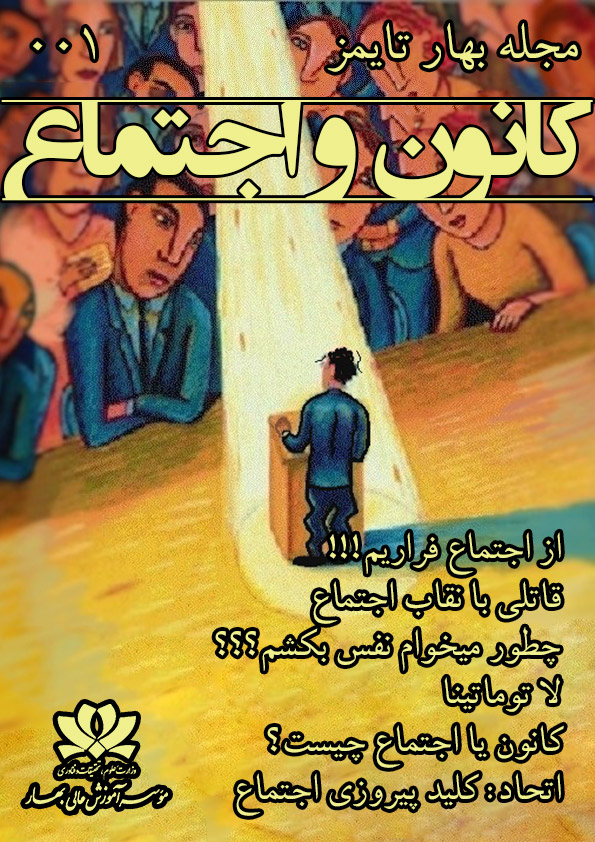
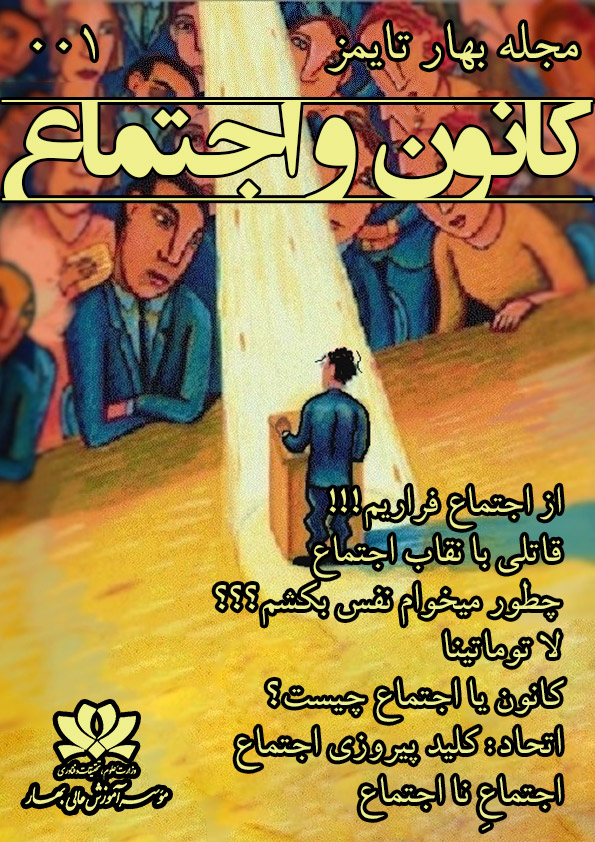
feat(001): add ajtema na ejtema

Changed region(s): [[0.3328, 0.5558, 0.9681, 0.9881]]

diff --git a/archive/001/index.html b/archive/001/index.html
@@ -451,6 +451,67 @@
         حال سؤال بسیار مهم این است: آیا این سلاح روزی در اختیار۹۹. ۵درصدیها قرار میگیرد؟ یا صرفاً ایده و تئوریای در ذهن انسانها خواهد ماند تا نور آن خاموش شود؟ شاید هم خاموش شدن آن علاج آن واقعه (دستیابی به اتحاد) قبل وقوع است؟
       </p>
     </div>
+    <br/>
+    <div class="typography-align">
+      <h2 class="display-inline-block">اجتماعِ نا اجتماع</h2>
+      <img
+        class="alignleft w-40 mt-0"
+        src="./assets/images/007.jpg"
+      />
+      <br />
+      <a
+        href="../../author/008-alireza-bahrami.html" 
+        class="profile mini inline"
+      >
+        <span class="title small">نویسنده: </span>
+        <strong class="title small">علیرضا بهرامی</strong>
+      </a>
+      <br/>
+      <span
+        class="profile mini inline"
+      >
+        <span class="title small">#</span>
+        <strong class="title small">طنز</strong>
+      </span>
+      <p class="text-align-justify">
+        میدانم اولین فکری که با شنیدن کلمه ی اجتماع به ذهن دیگران می آید چیست؟ ولی بنده اولین چیزی که در تداعی میشود مطالعات اجتماعیست
+      </p>
+      <br/>
+      <p class="text-align-justify">
+        که بسیار درس غیر طبیعی و غیر اجتماعی بود در واقع دورن آن از تاریخ بگیر تا حرفه و فن و معرفی ابزار آلات فنی و.... وجود داشت جز اجتماع و نکته بسیار ترسناک تر ماجرا اینجا بود که اتفاقا معلم این درس اجتماعی تحت شرایطی اجتماعی نبود ایشان در اصل طوری بودند که هر موقع یکی از شاگردانش را از چند فرسخی زیارت میکرد احوال شاگرد را با پرسیدن چند سوال اجتماعی جویا میشدند و سر کلاس هم جملهی بسیار معروفی داشتند خدا خیرشان بدهد یک جلسه در میان می فرمودند(دیگر از سوال پرسیدن خسته شده ام نفری یک برگه در بیاورید میخواهم امتحان بگیرم)
+      </p>
+      <p class="text-align-justify">
+        حال بهتر است بیخیال این خاطرات نچندان اجتماعی و حوصله سر بر گذر کنیم و برویم سر بحث اصلیمان (اجتماع)
+      </p>
+      <p class="text-align-justify">
+        اجتماع چیست؟ تعریف کتابی آن اینگونه است (بودن یک الی دو یا سه شخص کنار یکد یگر خود به خود و خود جوش اجتماع می آید) اکنون با ذهن باز ببینید تفسیر این جانب در مورد این اجتماع کوچک، بیایید در نظر بگیریم دو نفر از افراد این جامعه نااهل یا به زبان خودمانی ترش مزه پران، دلقک، کرمدار یا غیره باشند آنقدر با آن نفر سوم به قول خودشان شوخی می کنند که بیچاره راهی جز فرار برایش باقی نمی ماند حال این فراری شدن خودش سه حالت پیچیده دارد میرویم سراغ حالت اول :زمانی که فرد مسخره شده در حال فرار است عقل ناقصش به خوبیه همیشه کار نمی کند هر چند بنظر نمی رسد در گذشته نیز درست کار کرده باشد و گرنه به سمت این نااهلان نمی رفت بگذریم موقع فرار چون دیگر پناهی ندارد تا بتواند با آن درد دل و ناگفته های دل شکسته اش را بیرون بریزد اولین فکری به ذهنش می رسد به مواد مخدر پناه ببرد از سیگار شروع می کند و در آخر به سطح بالاترین مواد ممکن دست یافته است که البته در این بعد سال ها زندگی در جوب های سطح شهر بر روی کارتنی یا جوبی در حالی دوستان کرمدارش را نفرین میکند و جمله ای همیشه ورد زبانش هست را تکرار میکند(امان از دوستان ناباب) جان به جان آفرین تسلیم کرده البته نرم افزار های همچون بلد و نشان از این شخص میتوانند به عنوان بهترین راهنما برای موش های در جوب ها پرسه می زنند استفاده کنند
+        بهتر است برویم سراغ حالت دوم: در این حالت فرد فراری و دلشکسته که همچنان هیچ پناهی ندارد حتما با خود می گویید چرا این شخص بی شخصیت سراغ خانواده اش نمی رود پاسخ راحت
+        است زیرا اگر در خانواده درست مثل بچه آدم با او رفتار می شد سراغ هر کس و نا کسی نمی رفت 
+      </p>
+      <p class="text-align-justify">
+        دیگر تکیه گاهی برایش نمانده با خود تصمیم میگیرد که خودکشی کند البته از قبل همه چیز را برنامه ریزی کرده و نامه ای در جیبش گذاشته است و به بالای پل هوایی رفته و خود را همانند عقابی همیشه تنها به پایین می اندازد و در این هنگام است که یک پراید که همیشه در صحنه است روی این نازنین شخص عبور میکند و عکس این عزیز بر روی آسفالت کف جاده حک می کند 
+      </p>
+      <p class="text-align-justify">
+        از اتاق فرمان خبر داده اند که نامه ی شخص متوفا پیدا شده است
+        <br/>
+        (متن نامه)
+      </p>
+      <p class="text-align-justify">
+        (اکنون که دیگر راهی جز خودکشی برایم نمانده است اگر و فقط اگر یک نفر به من لبخند یا نمیچه لبخندی حواله کند تصمیمم را عوض می کنم البته این نکته را باید ذکر کنم که این عینک دودی
+        و ضعیف بودن چشمانم که رازش را فقط من و خدایم در جریانش هستیم کارم کمی مشکل می کند و همچنان خدا نگذرد از دوستان کرمدار و شوخ طبع.)
+      </p>
+      <p class="text-align-justify">
+        حالت سوم ماجرا از این قرار است که نه بیایید شما حدس بزنید 10 ثانیه به شما مهلت می دهم اگر درست حدس زدید شماره کارت بدهید نامرد باشد صاحب نشریه به کارتتان واریز نکند
+      </p>
+      <p class="text-align-justify">
+        خب 10 ثانیه تمام شد بهتر است دیگر به مغزهای انیشتین طورتان فشار نیاورید در حالت سوم فردفرار به درس و مشق و کتاب پناه می برد قید تمام تفریحات و خوش گذرانی را زده و تلاش و پشتکار را پیشه راهش میکند  در این زمان پله طرقی را یکی در میان برمی دارد و همسری در خور شأن و مقامش انتخاب می نماید و بچه دار نیز می شوند (به به مبارکا باشد) ولی از آنجایی که در جامعه روی خوش ندیده  همیشه تنها و عبوس بوده است با بچه اش نیز رفتار درستی ندارد و آنچنان به او سخت می گیرد که  نگویم برایتان
+      </p>
+      <p class="text-align-justify">
+        (مدیونید اگر فکر کنید با من چنین رفتاری شده است)
+        در پایان باید بگویم بیایید در اجتماع مثل آدم باشیم و با دوستان و دور و بری هایمان مثل آدمیزاد رفتار کنیم
+      </p>
+      <div class="clear-fix"></div>
+    </div>
     <div class="end-page"></div>
   </div>
   <script>

diff --git a/author/008-alireza-bahrami.html b/author/008-alireza-bahrami.html
@@ -3,7 +3,7 @@
   <meta charset="UTF-8">
   <meta http-equiv="X-UA-Compatible" content="IE=edge">
   <meta name="viewport" content="width=device-width, initial-scale=1.0">
-  <title>مجله بهار تایمز - نویسندگان</title>
+  <title>مجله بهار تایمز - محدثه طوبا</title>
   <link 
     rel="stylesheet"
     href="../assets/css/style.css"
@@ -94,7 +94,7 @@
         </li>
         <li>
           <a
-            href="00-author-list.html"
+            href="./00-author-list.html"
           >
             نویسندگان
           </a>
@@ -128,83 +128,14 @@
         </li>
       </ul>
     </nav>
-    <div>
-      <h1 class="text-center">نویسندگان مجله بهارتایمز</h1>
-      <br />
-      <ul class="list-profile">
-        <li>
-          <a
-            href="./008-alireza-bahrami.html" 
-            class="profile"
-          >
-            <img src="./images/008.jpg" class="w-80">
-            <h3 class="title">علیرضا بهرامی</h3>
-          </a>
-        </li>
-        <li>
-          <a
-            href="./004-hediye-gholam-ali-zade.html" 
-            class="profile"
-          >
-            <img src="./images/004.jpg" class="w-80">
-            <h3 class="title">هدیه غلامعلی زاده</h3>
-          </a>
-        </li>
-        <li>
-          <a
-            href="./006-ali-niromand.html" 
-            class="profile"
-          >
-            <img src="./images/006.jpg" class="w-80">
-            <h3 class="title">علی نیرومند</h3>
-          </a>
-        </li>
-        <li>
-          <a
-            href="./005-fatemeh-seyedi.html" 
-            class="profile"
-          >
-            <img src="./images/005.jpg" class="w-80">
-            <h3 class="title">فاطمه سیدی</h3>
-          </a>
-        </li>
-        <li>
-          <a
-            href="./003-aida-khavari.html" 
-            class="profile"
-          >
-            <img src="./images/003.jpg" class="w-80">
-            <h3 class="title">آیدا خاوری</h3>
-          </a>
-        </li>
-        <li>
-          <a
-            href="./007-mohadeseh-toba.html" 
-            class="profile"
-          >
-            <img src="./images/007.jpg" class="w-80">
-            <h3 class="title">محدثه طوبا</h3>
-          </a>
-        </li>
-        <li>
-          <a
-            href="./002-movahede-khoshtabkh.html" 
-            class="profile"
-          >
-            <img src="./images/002.jpg" class="w-80">
-            <h3 class="title">موحده خوش طبخ</h3>
-          </a>
-        </li>
-        <li>
-          <a
-            href="./001-mohammad-khodadadi.html" 
-            class="profile"
-          >
-            <img src="./images/001.jpg" class="w-80">
-            <h3 class="title">محمد خدادادی</h3>
-          </a>
-        </li>
-      </ul>
+    <div class="typography-align">
+      <img src="./images/008.jpg" class="alignleft" />
+      <h1>علیرضا بهرامی</h1>
+      
+      <p class="text-align-justify">
+        نوشته های علیرضا پر از شوخی های کنایه داره که خواندنشون رو جذاب میکنه.
+        با اون قلم شوخش باعث میشه نا خود آگاه از منظر طنز به موضوعات نگاه کنی اگر به طنز علاقه داری نوشته های علیرضا رو دنبال کن.
+      </p>
     </div>
   </div>
   <script>
